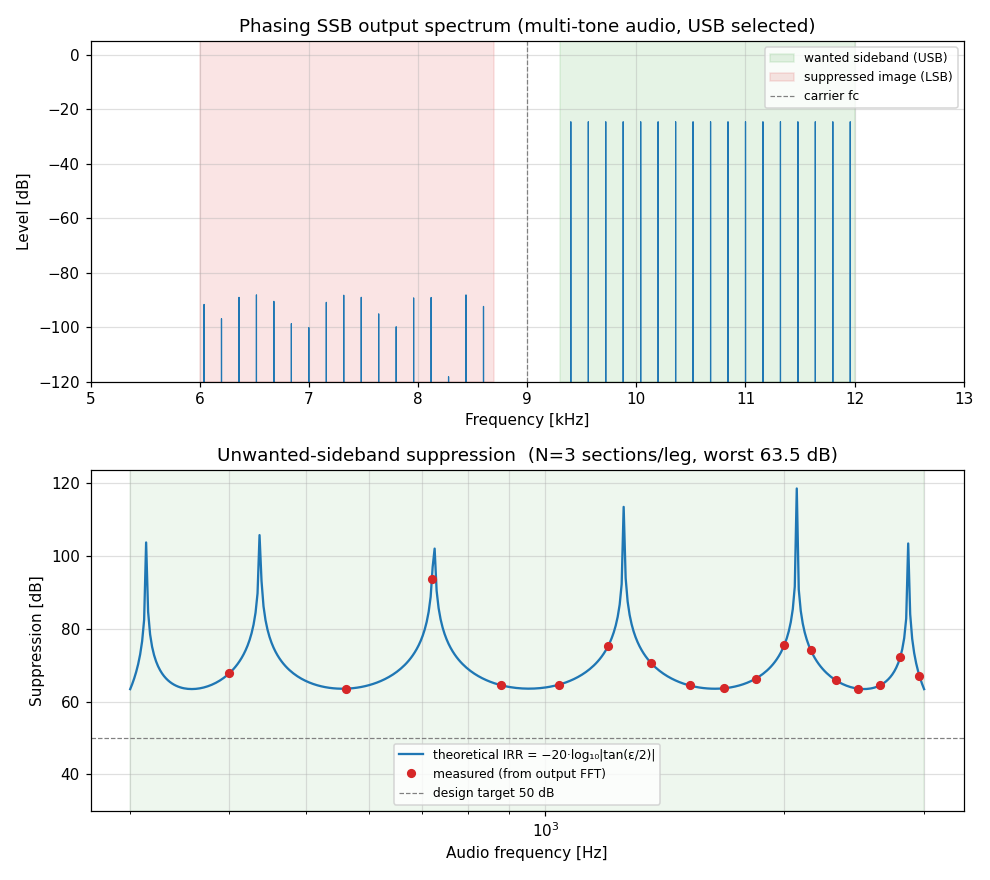
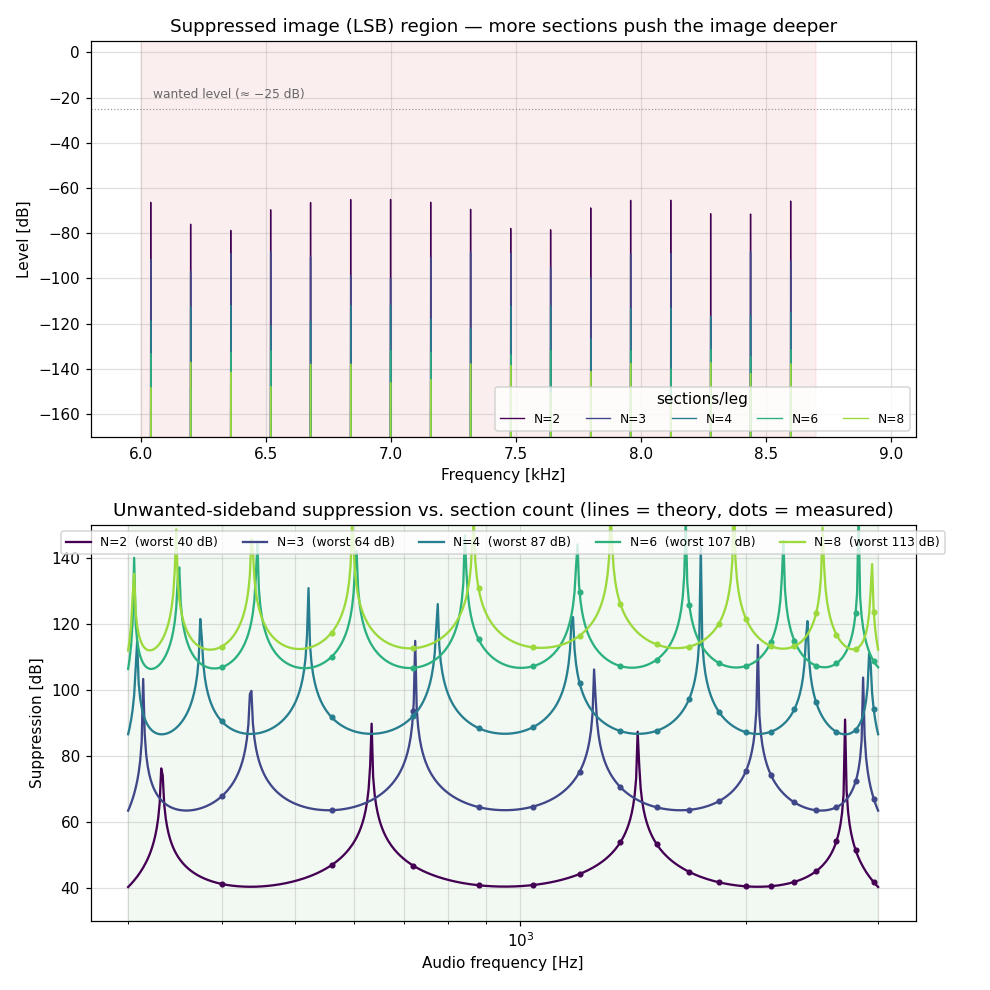
Compare SSB suppression across section counts
Rework ssb_phasing.py to sweep N = 2,3,4,6,8 sections/leg and overlay the
unwanted-sideband suppression (measured from the output FFT vs. theoretical
equiripple IRR), plus an image-band spectrum showing the LSB image dropping
deeper with each added section (~22 dB/section: 40/64/87/107/113 dB).
Update the README table and figure.

diff --git a/phshift/ssb_phasing.py b/phshift/ssb_phasing.py
@@ -61,97 +61,96 @@ def ssb_modulate(audio, c, fc, fs, sideband="USB"):
 # ---------------------------------------------------------------------------
 #  Demo
 # ---------------------------------------------------------------------------
+def _multitone(Nfft, tone_bins):
+    """Coherent multi-tone: 1 period pre-roll + 1 analysed period."""
+    n = np.arange(2 * Nfft)
+    audio = np.zeros(n.size)
+    for k in tone_bins:
+        audio += np.sin(2 * np.pi * k * n / Nfft)
+    return audio / len(tone_bins)
+
+
+def evaluate_N(N, fa, fb, fs, fc, audio, Nfft, tone_bins, fc_bin, df):
+    """Design N sections/leg, run the SSB chain, return measured + theoretical
+    suppression and the output spectrum."""
+    d = ep.design_equiripple(N, fa, fb, fs)
+    block = ssb_modulate(audio, d["c"], fc, fs, "USB")[Nfft:2 * Nfft]
+    X = np.fft.rfft(block) / Nfft * 2.0
+    mag_db = 20 * np.log10(np.maximum(np.abs(X), 1e-12))
+
+    f_meas = tone_bins * df
+    supp_meas = 20 * np.log10(np.abs(X[fc_bin + tone_bins])
+                              / np.maximum(np.abs(X[fc_bin - tone_bins]), 1e-15))
+
+    ftheo = np.logspace(np.log10(fa), np.log10(fb), 500)
+    ph = dp.phfunc(d["params"], ftheo, fs)
+    irr_theo = ep.phase_error_to_irr_db(ph[1] - ph[0] - 90.0)
+    return {"N": N, "mag_db": mag_db, "f_meas": f_meas, "supp_meas": supp_meas,
+            "ftheo": ftheo, "irr_theo": irr_theo, "worst": supp_meas.min()}
+
+
 def main():
     fs = 48000.0            # audio / IF sample rate
     fa, fb = 300.0, 3000.0  # HF communications audio band
     fc = 9000.0             # carrier (low IF, for visualisation)
-    target_irr = 50.0       # design spec: unwanted-sideband suppression
+    Ns = [2, 3, 4, 6, 8]    # sections per leg to compare (2N all-pass stages)
 
-    # --- design the 90-degree splitter from the IRR spec -------------------
-    N, d, irr = ep.min_sections(fa, fb, fs, target_irr, verbose=True)
-    c = d["c"]
-    print("\nUsing N=%d sections/leg  (2N=%d all-pass stages), worst-case IRR %.1f dB"
-          % (N, 2 * N, irr))
-
-    # --- coherent multi-tone test signal (tones on exact FFT bins) ---------
     Nfft = 1 << 16
     df = fs / Nfft
-    tone_hz = np.arange(400, 3001, 160.0)
-    tone_bins = np.round(tone_hz / df).astype(int)
-    tone_bins = np.unique(tone_bins)
+    tone_bins = np.unique(np.round(np.arange(400, 3001, 160.0) / df).astype(int))
     fc_bin = int(round(fc / df))
     fc = fc_bin * df
+    audio = _multitone(Nfft, tone_bins)
 
-    n = np.arange(2 * Nfft)                       # 1 period pre-roll + 1 analysed
-    audio = np.zeros(n.size)
-    for k in tone_bins:
-        audio += np.sin(2 * np.pi * k * n / Nfft)
-    audio /= len(tone_bins)
+    print("Phasing-method SSB, unwanted-sideband suppression vs. section count:")
+    results = []
+    for N in Ns:
+        r = evaluate_N(N, fa, fb, fs, fc, audio, Nfft, tone_bins, fc_bin, df)
+        results.append(r)
+        print("  N=%d/leg (2N=%2d stages):  worst-case suppression = %6.1f dB"
+              % (N, 2 * N, r["worst"]))
 
-    usb = ssb_modulate(audio, c, fc, fs, "USB")
-    block = usb[Nfft:2 * Nfft]                    # steady-state, coherent window
-    X = np.fft.rfft(block) / Nfft * 2.0
-    faxis = np.arange(X.size) * df
-    mag_db = 20 * np.log10(np.maximum(np.abs(X), 1e-12))
-
-    # measured suppression per tone: wanted (fc+f) vs image (fc-f)
-    supp_meas, f_meas = [], []
-    for k in tone_bins:
-        f = k * df
-        w = np.abs(X[fc_bin + k])
-        img = np.abs(X[fc_bin - k])
-        supp_meas.append(20 * np.log10(w / max(img, 1e-12)))
-        f_meas.append(f)
-    supp_meas = np.array(supp_meas)
-    f_meas = np.array(f_meas)
-
-    # theoretical IRR from the splitter's phase error
-    ftheo = np.logspace(np.log10(fa), np.log10(fb), 400)
-    ph = dp.phfunc(d["params"], ftheo, fs)
-    eps = ph[1] - ph[0] - 90.0
-    irr_theo = ep.phase_error_to_irr_db(eps)
-
-    worst = supp_meas.min()
-    print("Measured worst-case sideband suppression in band: %.1f dB" % worst)
-
-    _plots(faxis, mag_db, fc, fa, fb, f_meas, supp_meas, ftheo, irr_theo,
-           worst, N, target_irr)
+    _plots(results, fc, fa, fb, df)
 
 
-def _plots(faxis, mag_db, fc, fa, fb, f_meas, supp_meas, ftheo, irr_theo,
-           worst, N, target_irr):
+def _plots(results, fc, fa, fb, df):
     import matplotlib
     matplotlib.use("Agg")
     import matplotlib.pyplot as plt
 
-    fig, (ax1, ax2) = plt.subplots(2, 1, figsize=(9, 8))
+    faxis = np.arange(results[0]["mag_db"].size) * df
+    cmap = plt.get_cmap("viridis")
+    cols = [cmap(x) for x in np.linspace(0.0, 0.85, len(results))]
 
-    # --- SSB output spectrum ----------------------------------------------
-    ax1.plot(faxis / 1000, mag_db, lw=0.8, color="C0")
-    ax1.axvspan((fc + fa) / 1000, (fc + fb) / 1000, color="C2", alpha=0.12,
-                label="wanted sideband (USB)")
-    ax1.axvspan((fc - fb) / 1000, (fc - fa) / 1000, color="C3", alpha=0.12,
-                label="suppressed image (LSB)")
-    ax1.axvline(fc / 1000, color="0.5", ls="--", lw=0.8, label="carrier fc")
-    ax1.set_xlim(5, 13)
-    ax1.set_ylim(-120, 5)
-    ax1.set_title("Phasing SSB output spectrum (multi-tone audio, USB selected)")
+    fig, (ax1, ax2) = plt.subplots(2, 1, figsize=(9, 9))
+
+    # --- image-band spectra: image floor drops with section count ---------
+    for r, col in zip(results, cols):
+        ax1.plot(faxis / 1000, r["mag_db"], lw=0.9, color=col,
+                 label="N=%d" % r["N"])
+    ax1.axvspan((fc - fb) / 1000, (fc - fa) / 1000, color="C3", alpha=0.08)
+    ax1.axhline(-25, color="0.6", ls=":", lw=0.8)
+    ax1.text((fc - fb) / 1000 + 0.05, -20, "wanted level (≈ −25 dB)", fontsize=8,
+             color="0.4")
+    ax1.set_xlim((fc - fb) / 1000 - 0.2, fc / 1000 + 0.1)
+    ax1.set_ylim(-170, 5)
+    ax1.set_title("Suppressed image (LSB) region — more sections push the image deeper")
     ax1.set_xlabel("Frequency [kHz]"); ax1.set_ylabel("Level [dB]")
-    ax1.grid(True, alpha=0.4); ax1.legend(loc="upper right", fontsize=8)
+    ax1.grid(True, alpha=0.4); ax1.legend(loc="lower right", ncol=len(results),
+                                          fontsize=8, title="sections/leg")
 
-    # --- suppression vs audio frequency -----------------------------------
-    ax2.semilogx(ftheo, irr_theo, color="C0",
-                 label="theoretical IRR = −20·log₁₀|tan(ε/2)|")
-    ax2.semilogx(f_meas, supp_meas, "o", color="C3", ms=5,
-                 label="measured (from output FFT)")
-    ax2.axhline(target_irr, color="0.5", ls="--", lw=0.8,
-                label="design target %.0f dB" % target_irr)
-    ax2.axvspan(fa, fb, color="C2", alpha=0.08)
-    ax2.set_ylim(30, max(90, irr_theo.max() + 5))
-    ax2.set_title("Unwanted-sideband suppression  (N=%d sections/leg, worst %.1f dB)"
-                  % (N, worst))
+    # --- suppression vs audio frequency, one curve per N ------------------
+    for r, col in zip(results, cols):
+        ax2.semilogx(r["ftheo"], r["irr_theo"], color=col,
+                     label="N=%d  (worst %.0f dB)" % (r["N"], r["worst"]))
+        ax2.semilogx(r["f_meas"], r["supp_meas"], "o", color=col, ms=3)
+    ax2.axvspan(fa, fb, color="C2", alpha=0.06)
+    ax2.set_ylim(30, 150)
+    ax2.set_title("Unwanted-sideband suppression vs. section count "
+                  "(lines = theory, dots = measured)")
     ax2.set_xlabel("Audio frequency [Hz]"); ax2.set_ylabel("Suppression [dB]")
-    ax2.grid(True, which="both", alpha=0.4); ax2.legend(loc="lower center", fontsize=8)
+    ax2.grid(True, which="both", alpha=0.4); ax2.legend(loc="upper center",
+                                                        ncol=len(results), fontsize=8)
 
     fig.tight_layout()
     out = "ssb_phasing.png"

diff --git a/phshift/DIGITAL_README.md b/phshift/DIGITAL_README.md
@@ -260,15 +260,27 @@ suppression is set **entirely by the splitter's phase error** — it equals the 
 suppression(f) = −20·log10|tan(ε(f)/2)|
 ```
 
-`ssb_phasing.py` designs the splitter from an IRR spec (300–3000 Hz comms audio,
-target 50 dB → N=3 sections/leg → ~63 dB), feeds a coherent multi-tone, up-converts to a
-low IF, and reads the wanted vs. image lines straight off one FFT. The measured suppression
-lands exactly on the theoretical IRR curve:
+`ssb_phasing.py` designs the splitter (300–3000 Hz comms audio), feeds a coherent
+multi-tone, up-converts to a low IF, and reads the wanted vs. image lines straight off one
+FFT. It **compares several section counts** — more all-pass sections push the image deeper,
+~22 dB per section:
 
-![Phasing SSB suppression](ssb_phasing.png)
+| sections/leg N | all-pass stages 2N | worst-case suppression |
+|----------------|--------------------|------------------------|
+| 2 | 4  | 40 dB |
+| 3 | 6  | 64 dB |
+| 4 | 8  | 87 dB |
+| 6 | 12 | 107 dB |
+| 8 | 16 | 113 dB* |
 
-Top: the USB tones sit ~65 dB above the suppressed LSB image (and the carrier is nulled by
-the quadrature balance). Bottom: measured suppression (dots) vs. theoretical equiripple IRR.
+<sub>*N=8 hits the double-precision measurement floor (~112 dB); the true design phase error is even smaller.</sub>
+
+![Phasing SSB suppression vs. section count](ssb_phasing.png)
+
+Top: the suppressed image (LSB) tones drop deeper with each added section. Bottom: the
+measured suppression (dots) lands exactly on the theoretical equiripple IRR (lines), one
+curve per N. The measured worst-case matches theory to a fraction of a dB, confirming that
+for all-pass legs the sideband rejection is set purely by the phase error.
 
 ```python
 import ssb_phasing as ssb
